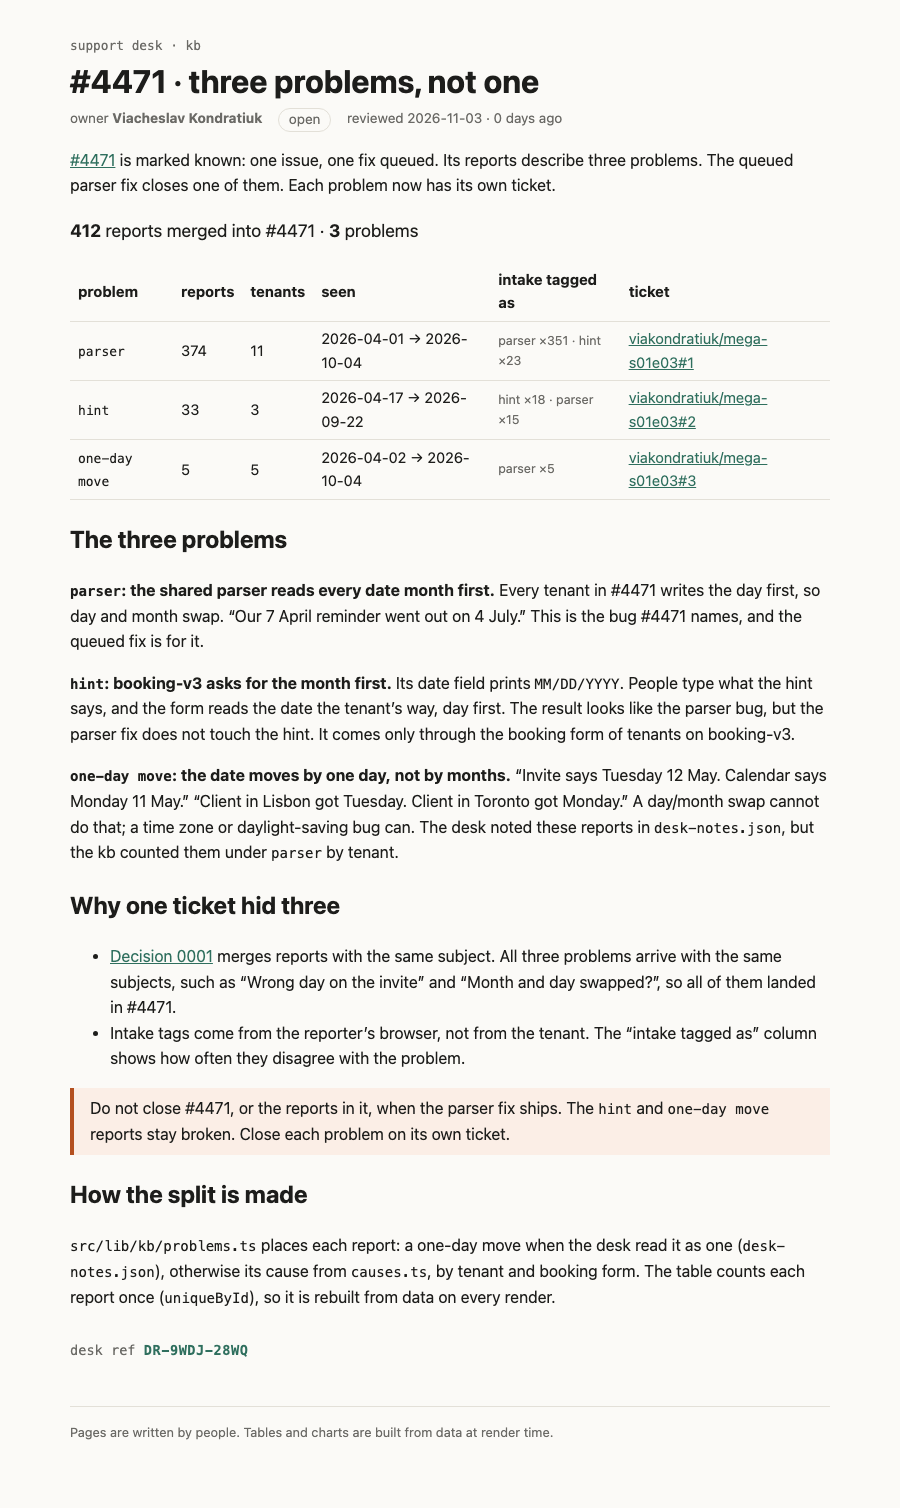
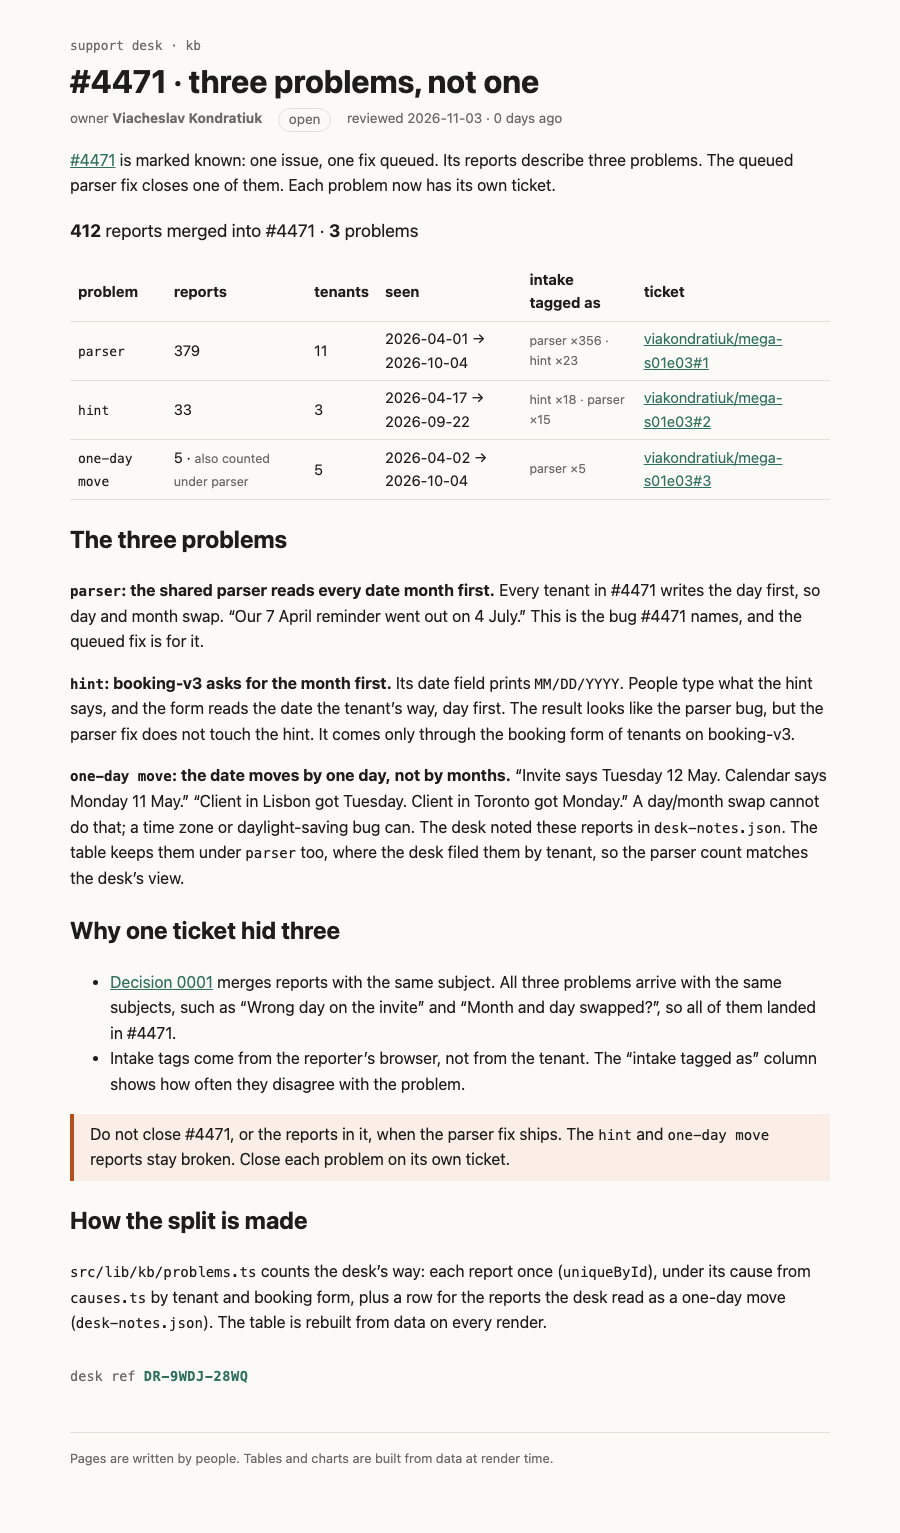
Count the page table the desk's way: parser 379, one-day moves also under parser

diff --git a/rendered/4471-split.html b/rendered/4471-split.html
@@ -19,12 +19,12 @@
 </style>
 		<style>aside.svelte-17bri61{border-left:4px solid var(--accent);background:var(--note-bg);margin:1rem 0;padding:.5rem 1rem}aside.warn.svelte-17bri61{border-color:var(--warn);background:var(--warn-bg)}
 </style>
-		<style>.sum.svelte-1op6c6{font-size:1.1rem}.tags.svelte-1op6c6{color:var(--muted);font-size:.85em}.none.svelte-1op6c6{color:var(--warn);font-weight:600}.stamp.svelte-1280m42{font:.85rem var(--mono);color:var(--muted);margin:2rem 0 0}.stamp.svelte-1280m42 b:where(.svelte-1280m42){color:var(--accent);letter-spacing:.04em}.missing.svelte-1280m42{color:var(--warn)}
+		<style>.sum.svelte-1op6c6{font-size:1.1rem}.tags.svelte-1op6c6,.also.svelte-1op6c6{color:var(--muted);font-size:.85em}.none.svelte-1op6c6{color:var(--warn);font-weight:600}.stamp.svelte-1280m42{font:.85rem var(--mono);color:var(--muted);margin:2rem 0 0}.stamp.svelte-1280m42 b:where(.svelte-1280m42){color:var(--accent);letter-spacing:.04em}.missing.svelte-1280m42{color:var(--warn)}
 </style>
   </head>
   <body>
     <div style="display: contents"><!--[--><!--[0--><!--[--><!--[--><div class="kb svelte-e2jw2j"><header><a class="crumb svelte-e2jw2j" href="/kb">support desk · kb</a> <h1 class="svelte-e2jw2j">#4471 · three problems, not one</h1> <p class="meta svelte-e2jw2j"><span>owner <b>Viacheslav Kondratiuk</b></span> <span class="status open svelte-e2jw2j">open</span> <span class="svelte-e2jw2j">reviewed 2026-11-03 · 0 days ago</span></p></header> <!--[-1--><!--]--> <main><p><a href="/kb/incidents/4471">#4471</a> is marked known: one issue, one fix queued. Its reports describe
-three problems. The queued parser fix closes one of them. Each problem now has its own ticket.</p> <p class="sum svelte-1op6c6"><strong>412</strong> reports merged into #4471 · <strong>3</strong> problems</p> <table><thead><tr><th>problem</th><th>reports</th><th>tenants</th><th>seen</th><th>intake tagged as</th><th>ticket</th></tr></thead><tbody><!--[--><tr><td><code>parser</code></td><td>374</td><td>11</td><td>2026-04-01 → 2026-10-04</td><td class="tags svelte-1op6c6">parser ×351 · hint ×23</td><td><!--[0--><a href="https://github.com/viakondratiuk/mega-s01e03/issues/1">viakondratiuk/mega-s01e03#1</a><!--]--></td></tr><tr><td><code>hint</code></td><td>33</td><td>3</td><td>2026-04-17 → 2026-09-22</td><td class="tags svelte-1op6c6">hint ×18 · parser ×15</td><td><!--[0--><a href="https://github.com/viakondratiuk/mega-s01e03/issues/2">viakondratiuk/mega-s01e03#2</a><!--]--></td></tr><tr><td><code>one-day move</code></td><td>5</td><td>5</td><td>2026-04-02 → 2026-10-04</td><td class="tags svelte-1op6c6">parser ×5</td><td><!--[0--><a href="https://github.com/viakondratiuk/mega-s01e03/issues/3">viakondratiuk/mega-s01e03#3</a><!--]--></td></tr><!--]--></tbody></table><!----> <h2>The three problems</h2> <p><strong><code>parser</code>: the shared parser reads every date month first.</strong> Every tenant in #4471 writes the
+three problems. The queued parser fix closes one of them. Each problem now has its own ticket.</p> <p class="sum svelte-1op6c6"><strong>412</strong> reports merged into #4471 · <strong>3</strong> problems</p> <table><thead><tr><th>problem</th><th>reports</th><th>tenants</th><th>seen</th><th>intake tagged as</th><th>ticket</th></tr></thead><tbody><!--[--><tr><td><code>parser</code></td><td>379<!--[-1--><!--]--></td><td>11</td><td>2026-04-01 → 2026-10-04</td><td class="tags svelte-1op6c6">parser ×356 · hint ×23</td><td><!--[0--><a href="https://github.com/viakondratiuk/mega-s01e03/issues/1">viakondratiuk/mega-s01e03#1</a><!--]--></td></tr><tr><td><code>hint</code></td><td>33<!--[-1--><!--]--></td><td>3</td><td>2026-04-17 → 2026-09-22</td><td class="tags svelte-1op6c6">hint ×18 · parser ×15</td><td><!--[0--><a href="https://github.com/viakondratiuk/mega-s01e03/issues/2">viakondratiuk/mega-s01e03#2</a><!--]--></td></tr><tr><td><code>one-day move</code></td><td>5<!--[0--> · <span class="also svelte-1op6c6">also counted under parser</span><!--]--></td><td>5</td><td>2026-04-02 → 2026-10-04</td><td class="tags svelte-1op6c6">parser ×5</td><td><!--[0--><a href="https://github.com/viakondratiuk/mega-s01e03/issues/3">viakondratiuk/mega-s01e03#3</a><!--]--></td></tr><!--]--></tbody></table><!----> <h2>The three problems</h2> <p><strong><code>parser</code>: the shared parser reads every date month first.</strong> Every tenant in #4471 writes the
 day first, so day and month swap. “Our 7 April reminder went out on 4 July.” This is the bug
 #4471 names, and the queued fix is for it.</p> <p><strong><code>hint</code>: booking-v3 asks for the month first.</strong> Its date field prints <code>MM/DD/YYYY</code>. People type
 what the hint says, and the form reads the date the tenant’s way, day first. The result looks
@@ -32,12 +32,13 @@ like the parser bug, but the parser fix does not touch the hint. It comes only t
 booking form of tenants on booking-v3.</p> <p><strong><code>one-day move</code>: the date moves by one day, not by months.</strong> “Invite says Tuesday 12 May.
 Calendar says Monday 11 May.” “Client in Lisbon got Tuesday. Client in Toronto got Monday.”
 A day/month swap cannot do that; a time zone or daylight-saving bug can. The desk noted these
-reports in <code>desk-notes.json</code>, but the kb counted them under <code>parser</code> by tenant.</p> <h2>Why one ticket hid three</h2> <ul><li><a href="/kb/decisions/0001-dedupe-by-subject">Decision 0001</a> merges reports with the same subject.
+reports in <code>desk-notes.json</code>. The table keeps them under <code>parser</code> too, where the desk filed them
+by tenant, so the parser count matches the desk’s view.</p> <h2>Why one ticket hid three</h2> <ul><li><a href="/kb/decisions/0001-dedupe-by-subject">Decision 0001</a> merges reports with the same subject.
 All three problems arrive with the same subjects, such as “Wrong day on the invite” and
 “Month and day swapped?”, so all of them landed in #4471.</li> <li>Intake tags come from the reporter’s browser, not from the tenant. The “intake tagged as”
-column shows how often they disagree with the problem.</li></ul> <aside class="warn svelte-17bri61"><!---->Do not close #4471, or the reports in it, when the parser fix ships. The <code>hint</code> and <code>one-day move</code> reports stay broken. Close each problem on its own ticket.<!----></aside><!----> <h2>How the split is made</h2> <p><code>src/lib/kb/problems.ts</code> places each report: a one-day move when the desk read it as one
-(<code>desk-notes.json</code>), otherwise its cause from <code>causes.ts</code>, by tenant and booking form. The table
-counts each report once (<code>uniqueById</code>), so it is rebuilt from data on every render.</p> <!--[0--><p class="stamp svelte-1280m42">desk ref <b class="svelte-1280m42">DR-9WDJ-28WQ</b></p><!--]--><!----><!----></main> <footer class="svelte-e2jw2j">Pages are written by people. Tables and charts are built from data at render time.</footer></div><!--]--><!----><!--]--><!--]--> <!--[-1--><!--]--><!--]-->
+column shows how often they disagree with the problem.</li></ul> <aside class="warn svelte-17bri61"><!---->Do not close #4471, or the reports in it, when the parser fix ships. The <code>hint</code> and <code>one-day move</code> reports stay broken. Close each problem on its own ticket.<!----></aside><!----> <h2>How the split is made</h2> <p><code>src/lib/kb/problems.ts</code> counts the desk’s way: each report once (<code>uniqueById</code>), under its cause
+from <code>causes.ts</code> by tenant and booking form, plus a row for the reports the desk read as a one-day
+move (<code>desk-notes.json</code>). The table is rebuilt from data on every render.</p> <!--[0--><p class="stamp svelte-1280m42">desk ref <b class="svelte-1280m42">DR-9WDJ-28WQ</b></p><!--]--><!----><!----></main> <footer class="svelte-e2jw2j">Pages are written by people. Tables and charts are built from data at render time.</footer></div><!--]--><!----><!--]--><!--]--> <!--[-1--><!--]--><!--]-->
 			
 			
 		</div>

diff --git a/src/lib/kb/problems.ts b/src/lib/kb/problems.ts
@@ -1,18 +1,13 @@
-// Which problem a report in a merged ticket belongs to. causes.ts places a report by its tenant;
-// this file adds the one thing a tenant cannot tell: reports whose body describes a one-day move.
+// The problems in a merged ticket, counted the desk's way: every report under its cause by tenant
+// (causes.ts), plus the reports the desk read as a one-day move (desk-notes.json). A day/month swap
+// moves a date by months, never by one day, so a one-day move is its own problem. Its reports stay
+// counted under their cause too, where the desk filed them.
 
-import { causeOf, type Cause, type Report, type Tenant } from '#lib/kb/causes';
+import { groupByCause, readAs, type Cause, type Report, type Tenant } from '#lib/kb/causes';
 
-// A day/month swap moves a date by months, never by one day. A report the desk read as a one-day
-// move (desk-notes.json) is a different problem, whatever its tenant.
-export type Problem = Cause | 'one-day move' | 'unplaced';
+export type Problem = Cause | 'unplaced' | 'one-day move';
 
-export function problemOf(r: Report, t: Tenant | undefined, oneDayMove: readonly string[]): Problem {
-  if (oneDayMove.includes(r.id)) return 'one-day move';
-  return causeOf(r, t) ?? 'unplaced';
-}
-
-export type ProblemGroup = {
+export type ProblemRow = {
   problem: Problem;
   reports: number;
   tenants: number;
@@ -20,29 +15,37 @@ export type ProblemGroup = {
   taggedAs: Record<string, number>;
   firstSeen: string;
   lastSeen: string;
+  // For a one-day move: the cause its reports are also counted under.
+  alsoIn: Problem[];
 };
 
-export function groupByProblem(
+export function problemRows(
   reports: Report[],
   tenantOf: (r: Report) => Tenant | undefined,
   oneDayMove: readonly string[],
-): ProblemGroup[] {
-  const byProblem = new Map<Problem, Report[]>();
-  for (const r of reports) {
-    const p = problemOf(r, tenantOf(r), oneDayMove);
-    byProblem.set(p, [...(byProblem.get(p) ?? []), r]);
+): ProblemRow[] {
+  const groups = groupByCause(reports, tenantOf);
+  const rows: ProblemRow[] = groups.map((g) => ({
+    problem: g.cause,
+    reports: g.reports.length,
+    tenants: g.tenants,
+    taggedAs: g.taggedAs,
+    firstSeen: g.firstSeen,
+    lastSeen: g.lastSeen,
+    alsoIn: [],
+  }));
+  const moved = reports.filter((r) => oneDayMove.includes(r.id));
+  if (moved.length) {
+    const days = moved.map((r) => r.receivedAt.slice(0, 10)).sort();
+    rows.push({
+      problem: 'one-day move',
+      reports: moved.length,
+      tenants: new Set(moved.map((r) => r.tenant)).size,
+      taggedAs: moved.reduce<Record<string, number>>((n, r) => ({ ...n, [r.meta.intakeTag]: (n[r.meta.intakeTag] ?? 0) + 1 }), {}),
+      firstSeen: days[0],
+      lastSeen: days[days.length - 1],
+      alsoIn: groups.filter((g) => readAs(g, oneDayMove) > 0).map((g) => g.cause),
+    });
   }
-  return [...byProblem.entries()]
-    .map(([problem, rs]) => {
-      const days = rs.map((r) => r.receivedAt.slice(0, 10)).sort();
-      return {
-        problem,
-        reports: rs.length,
-        tenants: new Set(rs.map((r) => r.tenant)).size,
-        taggedAs: rs.reduce<Record<string, number>>((n, r) => ({ ...n, [r.meta.intakeTag]: (n[r.meta.intakeTag] ?? 0) + 1 }), {}),
-        firstSeen: days[0],
-        lastSeen: days[days.length - 1],
-      };
-    })
-    .sort((a, b) => b.reports - a.reports);
+  return rows;
 }

diff --git a/src/lib/kb/ProblemTable.svelte b/src/lib/kb/ProblemTable.svelte
@@ -2,14 +2,14 @@
   import reports from '#lib/data/reports-4471.json';
   import notes from '#lib/data/desk-notes.json';
   import { uniqueById, type Report } from '#lib/kb/causes';
-  import { groupByProblem, type Problem } from '#lib/kb/problems';
+  import { problemRows, type Problem } from '#lib/kb/problems';
   import { tenantOf } from '#lib/kb/locales';
 
   // tickets: problem → the ticket filed for it.
   let { ticket, tickets }: { ticket: number; tickets: Partial<Record<Problem, string>> } = $props();
 
   const merged = $derived(uniqueById(reports as Report[]).filter((r) => r.mergedInto === ticket));
-  const groups = $derived(groupByProblem(merged, tenantOf, notes.oneDayMove));
+  const groups = $derived(problemRows(merged, tenantOf, notes.oneDayMove));
   const tags = (g: { taggedAs: Record<string, number> }) =>
     Object.entries(g.taggedAs)
       .sort((a, b) => b[1] - a[1])
@@ -32,7 +32,7 @@
     {#each groups as g (g.problem)}
       <tr>
         <td><code>{g.problem}</code></td>
-        <td>{g.reports}</td>
+        <td>{g.reports}{#if g.alsoIn.length}{" · "}<span class="also">also counted under {g.alsoIn.join(', ')}</span>{/if}</td>
         <td>{g.tenants}</td>
         <td>{g.firstSeen} → {g.lastSeen}</td>
         <td class="tags">{tags(g)}</td>
@@ -47,5 +47,6 @@
 <style>
   .sum { font-size: 1.1rem; }
   .tags { color: var(--muted); font-size: 0.85em; }
+  .also { color: var(--muted); font-size: 0.85em; }
   .none { color: var(--warn); font-weight: 600; }
 </style>
